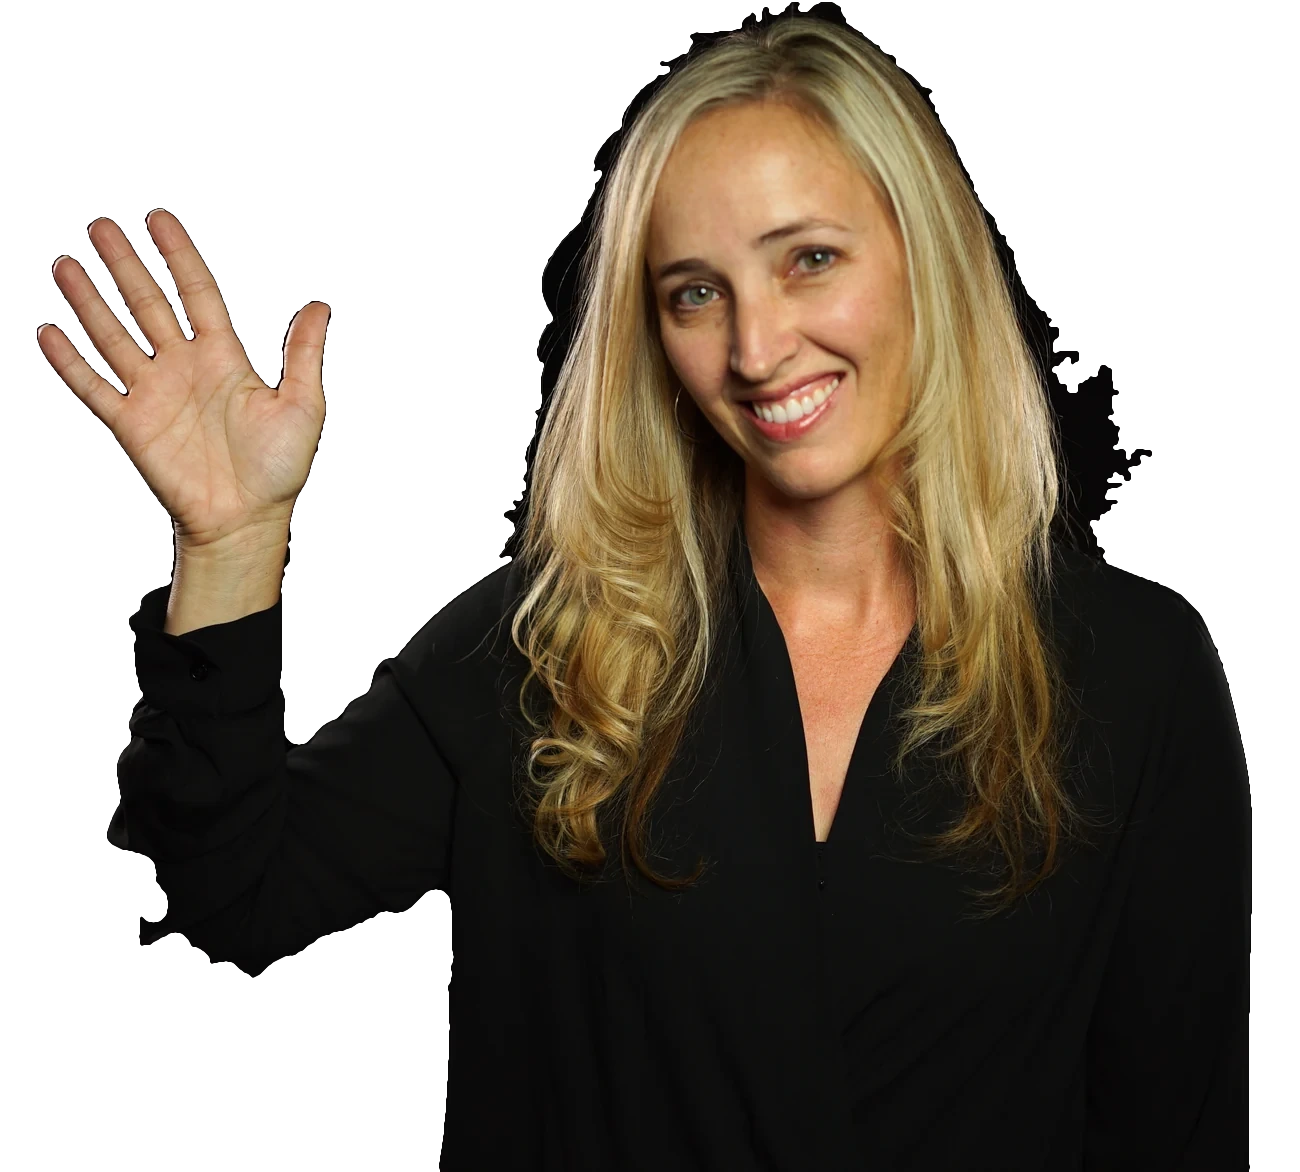
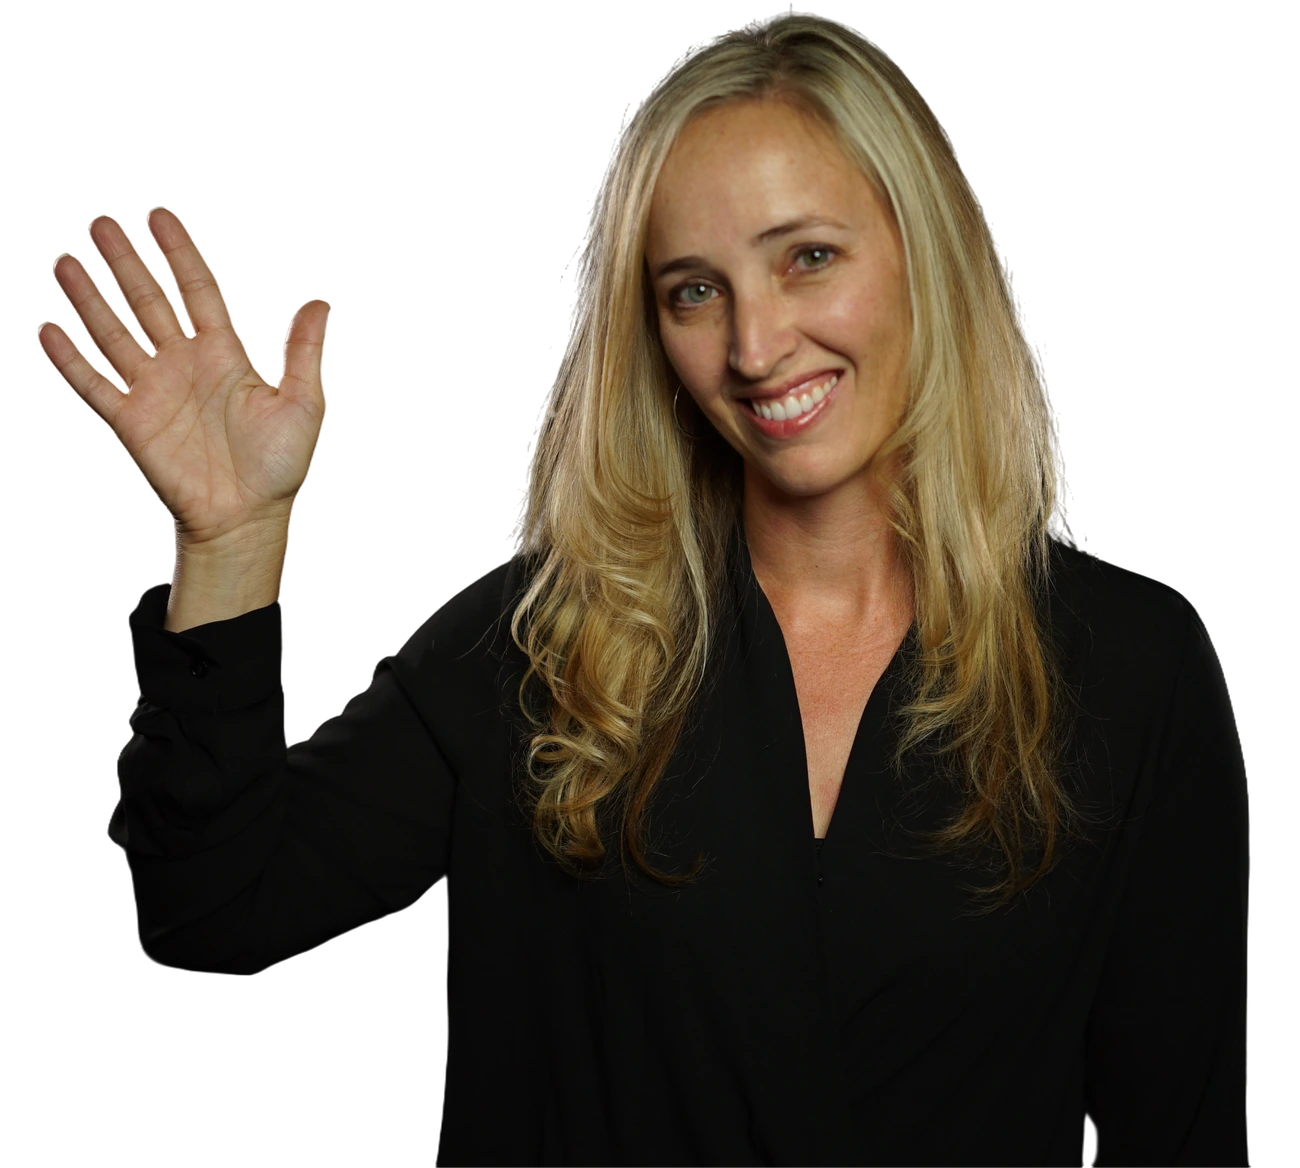
Replace the masked cutout with the real transparent Brenda
Drops the luminance-threshold silhouette and everything stacked on top of it
to keep it presentable: the hem row-fill, the sleeve closing, the speck
removal, the edge antialiasing. A proper cutout makes all of that moot, and
the hair is separated strand by strand rather than approximated as a blob.

Framed to land where the old one did. The figure's aspect is 1.042 against
the old 1.038, so reproducing the old canvas margins (3.05% left, 4.04%
right, 0.17% top, flush bottom, as fractions of the figure) gives
1300x1168 against 1300x1172. Nothing in the layout moves; she still cuts
clean at the footer line.

One repair the source needed: it exports the whole body at alpha 254, not
255, so the purple wash was bleeding through her at 0.4%. Anything at 250 or
above is snapped to opaque, which leaves the antialiased hair edges alone
(35k soft pixels, all of them on the silhouette).

diff --git a/bmc-private-invitation.html b/bmc-private-invitation.html
@@ -911,7 +911,7 @@ body.bco-open { overflow: hidden; }
 
     <figure class="pi-brenda reveal reveal-scale">
       <img src="studio45/brenda.webp" alt="Brenda, member services, waving"
-           width="1300" height="1172" loading="lazy" decoding="async" />
+           width="1300" height="1168" loading="lazy" decoding="async" />
     </figure>
 
     <div class="pi-close-body">
